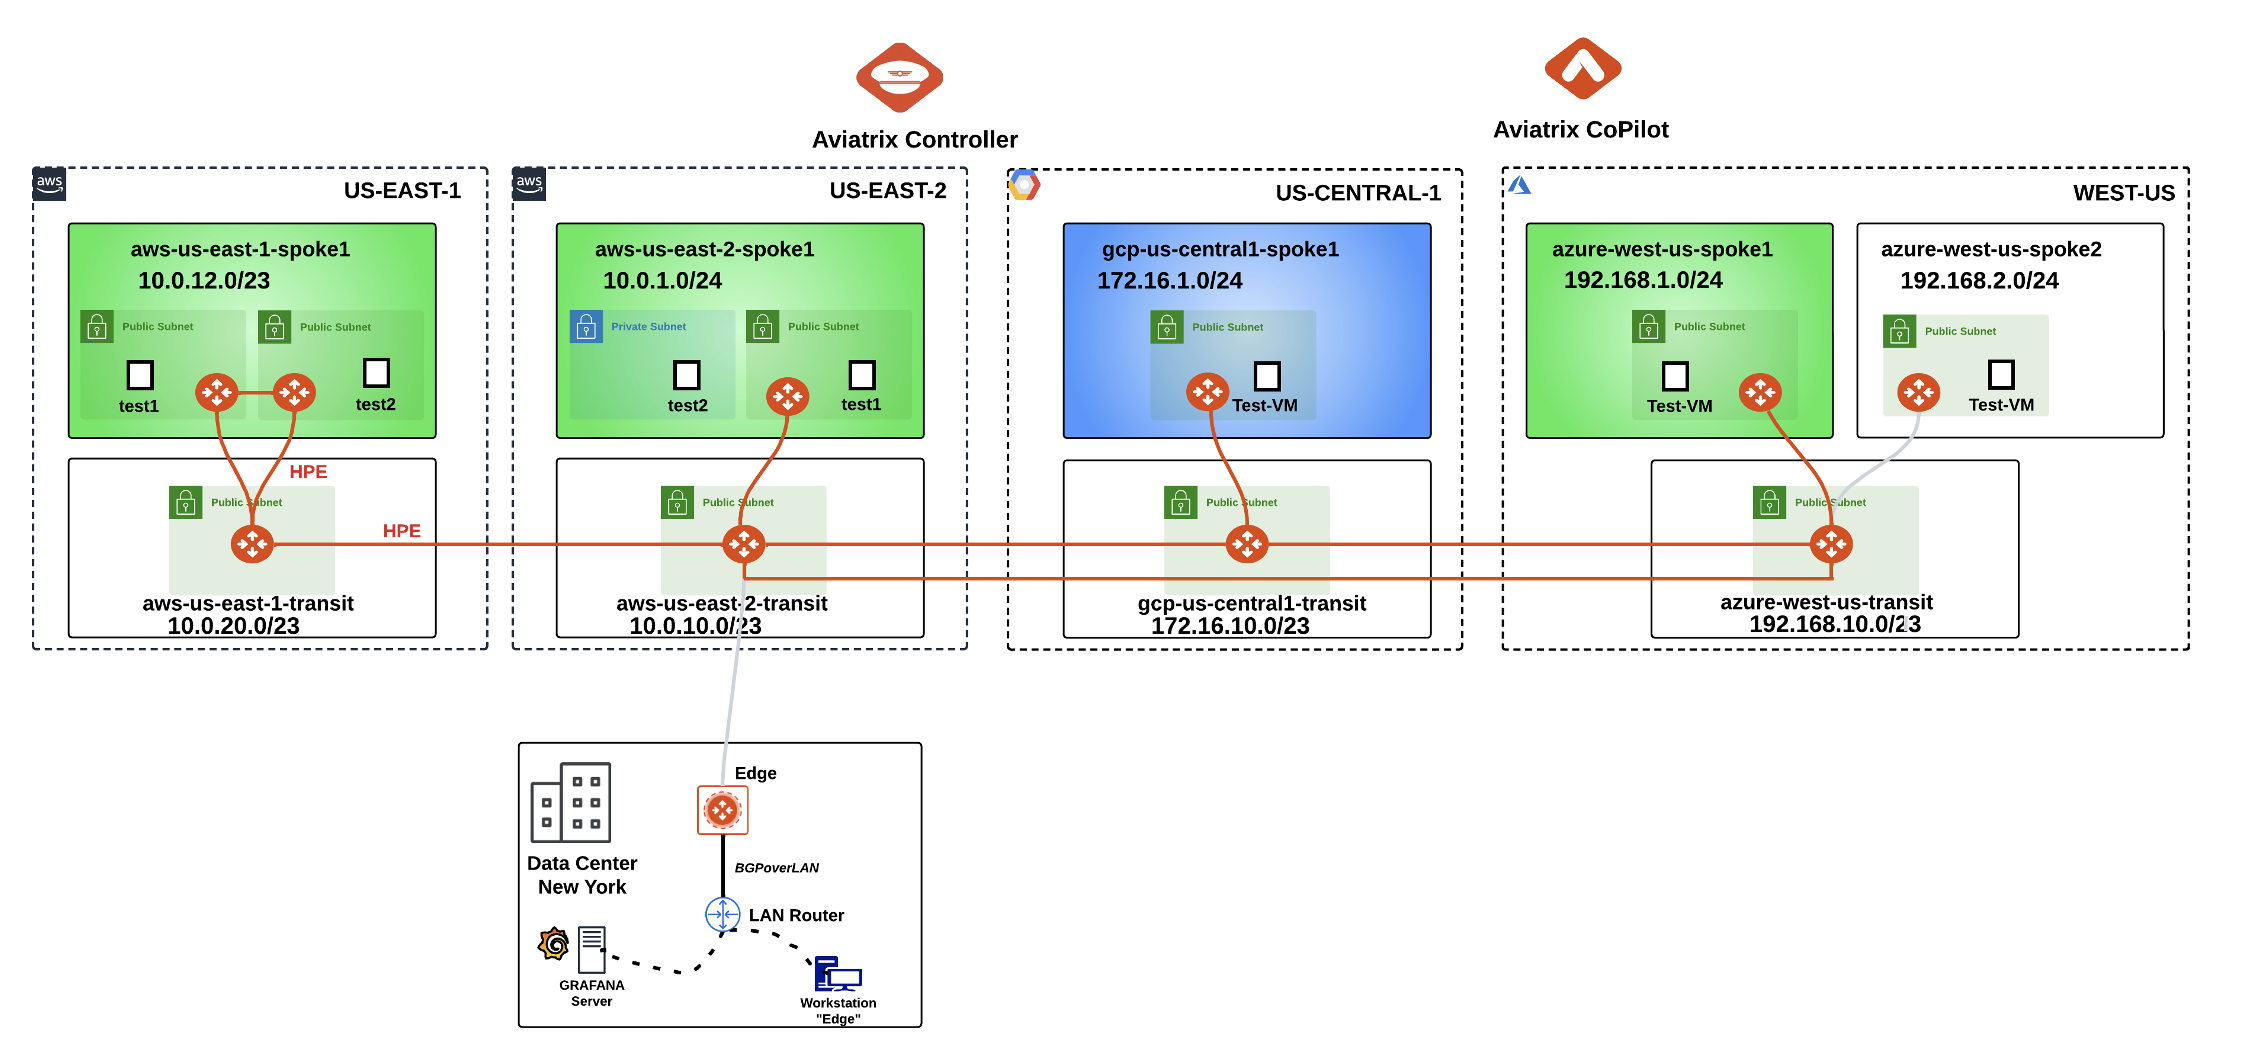
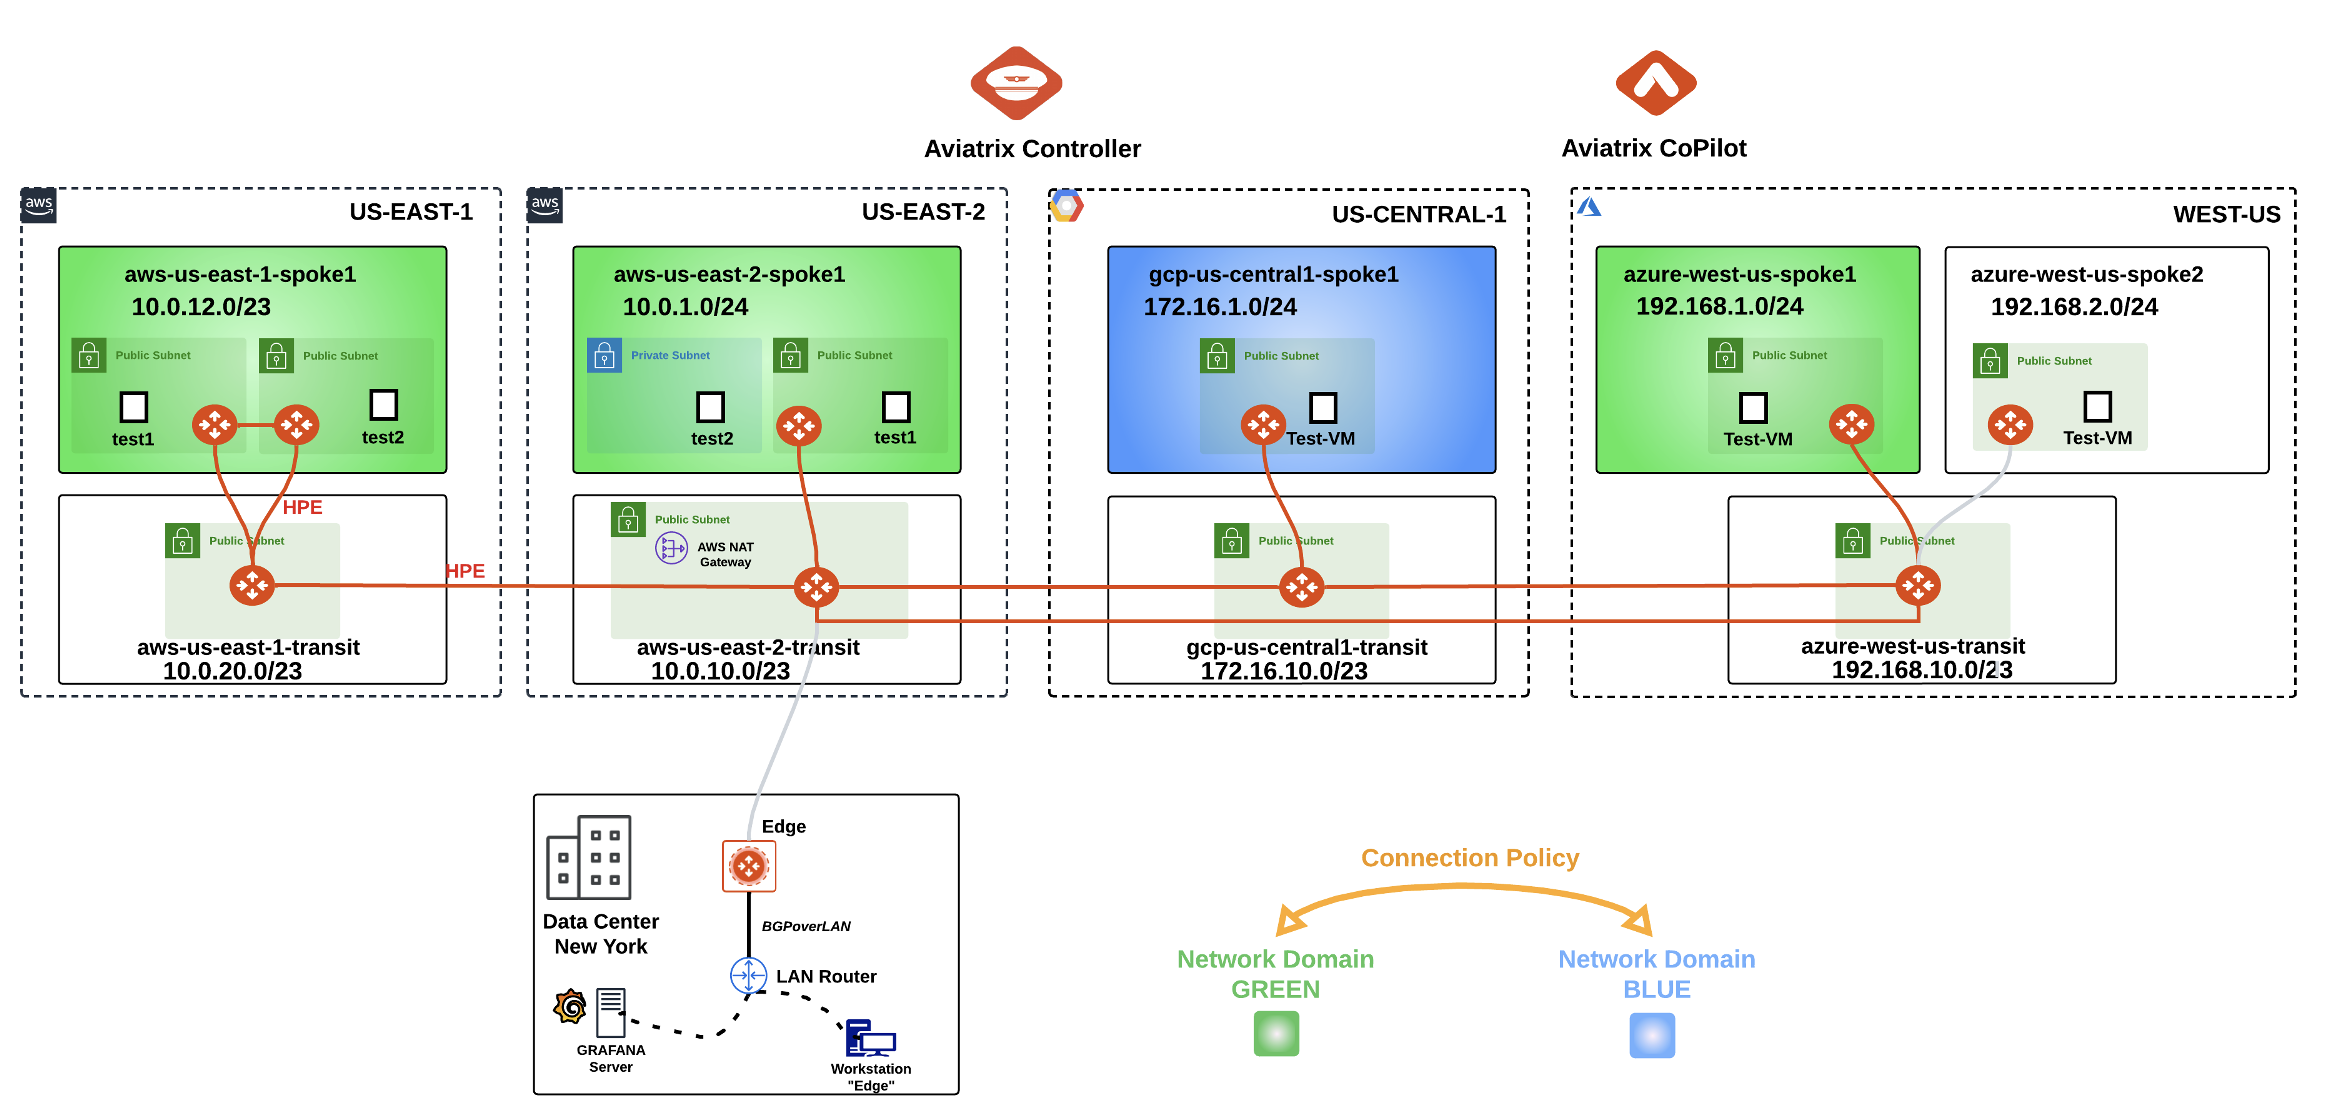
update for pro

Changed region(s): [[0.0, 0.0305, 0.9947, 1.0], [0.4973, 0.7634, 0.746, 0.9466]]

diff --git a/ace_pro/docs/lab5.md b/ace_pro/docs/lab5.md
@@ -18,10 +18,12 @@ Lab 6 Initial Topology
 
 The VPC **aws-us-east-2-spoke1** has a private subnet in its environment, whereby the Egress Control can be activated in this specific VPC.
 
+At the moment, this private subnet is leveraging the **AWS NAT Gateway** to reach the Internet Public Zone.
+
 - Explore the Private Routing Tables inside the VPC **aws-us-east-2-spoke1**
 
 ```{tip}
-Go to **CoPilot > Cloud Fabric > Gateways > Spoke Gateways** and select the **_aws-us-east-2-spoke1 GW_**, then click on the **VPC/VNet Route Tables** tab, then select any of the Private RTBs from the `Route Table` field.
+Go to **CoPilot > Cloud Fabric > Gateways > Spoke Gateways** and select the **_aws-us-east-2-spoke1 GW_**, then click on the **VPC/VNet Route Tables** tab, then select the following Private RTB from the `Route Table` field: **aws-us-east-2-spoke1-Private-1-us-east-2a-rtb**
 ```
 
 ```{figure} images/lab6-spokegw.png
@@ -38,9 +40,9 @@ align: center
 Check the private RTB
 ```
 
-You will notice that any private RTBs has its own **CIDR** pointing to local and the three **RFC1918** routes pointing to the Aviatrix Spoke Gateway. 
+You will notice that this private RTB has its own **CIDR** pointing to local, the three **RFC1918** routes pointing to the Aviatrix Spoke Gateway (injected by the Aviatrix Controller) and a default route pointing to the AWS NAT Gateway. 
 
-With this scenario, the EC2 instance can't reach the *Internet Public Zone*, due to the absence of a <ins>default route</ins>.
+With this scenario, the EC2 instance can reach the **Internet Public Zone**; however, the AWS NAT Gateway is limited and provided by the logs and flows, which might not be adequate in an Enterprise scenario. Moreover, it doesn't provide any visibility.
 
 ## 3. SSH to the EC2 instance in the Private Subnet
 

diff --git a/ace_pro/docs/lab4.md b/ace_pro/docs/lab4.md
@@ -573,9 +573,9 @@ align: center
 AWS Console
 ```
 
-The traffic will be diverted back to Spoke Gateway #2; however, on the Gatus Dashboard, you will not notice any packet loss. 
+The traffic will be diverted back to Spoke Gateway **#1**; however, you will not notice any packet loss on the Gatus Dashboard.
 
-The preemption is seamless!
+The <ins>preemption</ins> is seamless!
 
 ```{figure} images/lab4-gatus420.png
 ---
